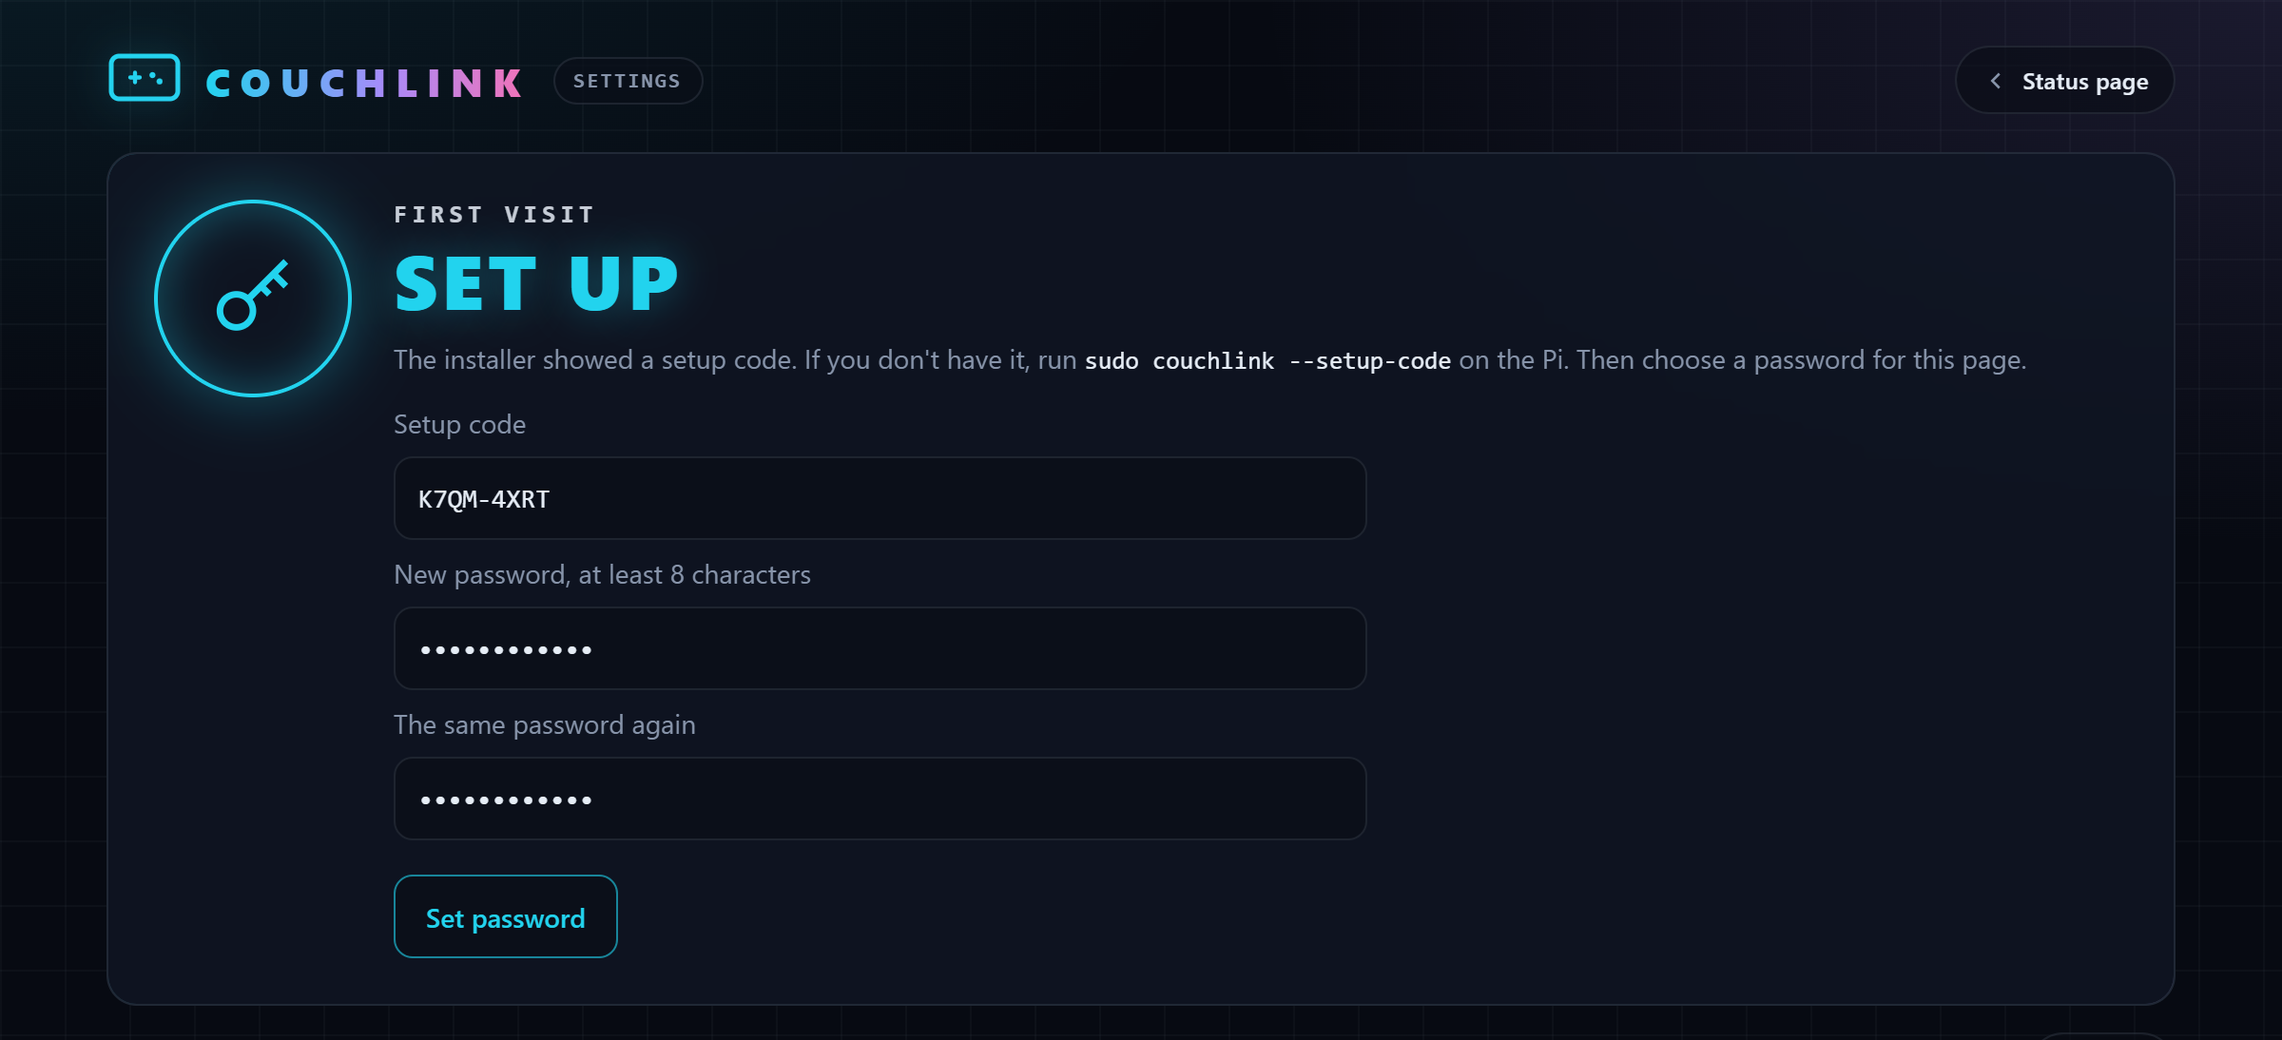
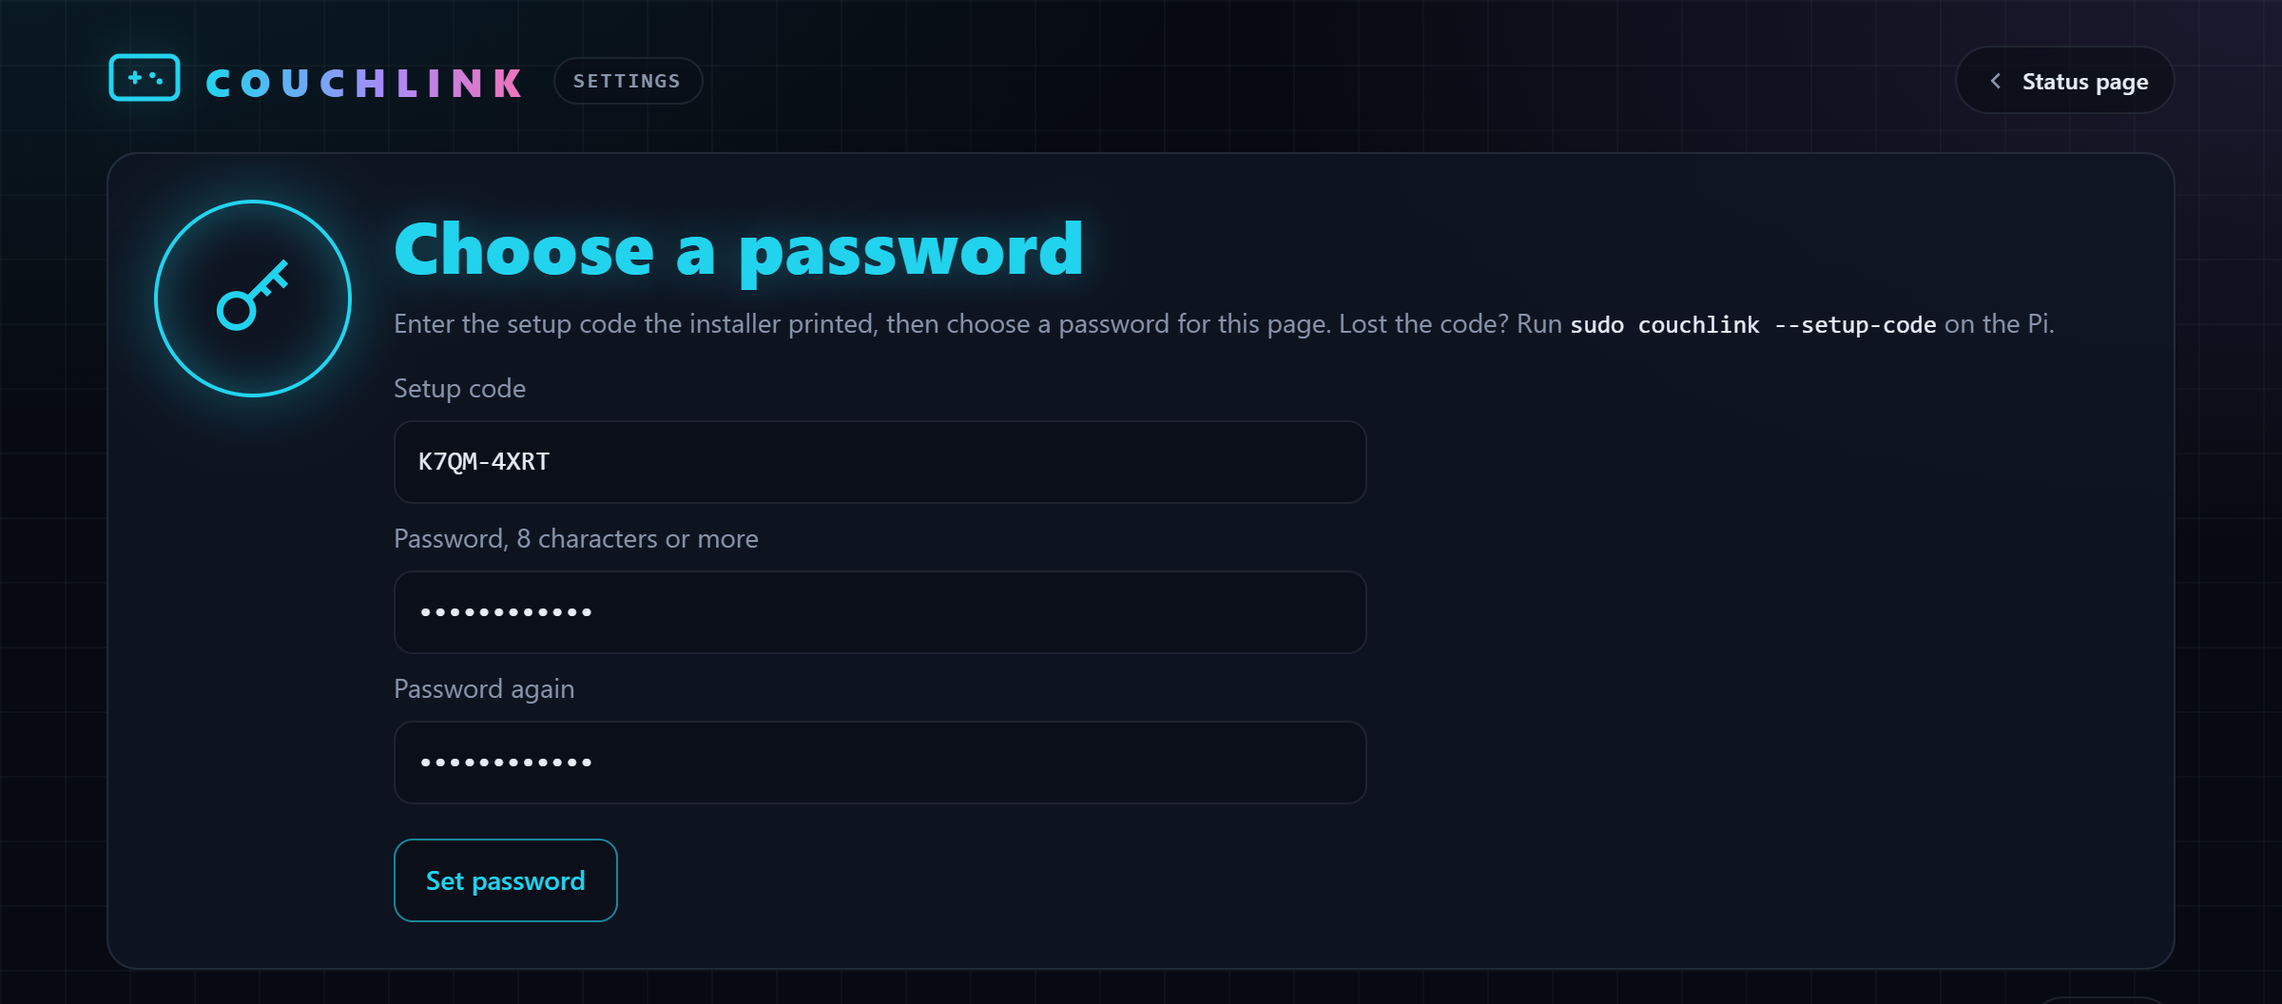
Plainer wording on the setup pages, and keep the settings inside a phone screen

diff --git a/couchlink/static/admin.html b/couchlink/static/admin.html
@@ -35,10 +35,9 @@
       <svg viewBox="0 0 24 24" fill="none" stroke="currentColor" stroke-width="1.6" aria-hidden="true"><rect x="4" y="11" width="16" height="10" rx="2"/><path d="M8 11V7a4 4 0 0 1 8 0v4"/></svg>
     </div>
     <div>
-    <div class="kicker">Settings</div>
     <h1 class="state">Log in</h1>
     <form id="loginForm" class="stack">
-      <label for="password">Password for the settings page</label>
+      <label for="password">Password</label>
       <input id="password" type="password" autocomplete="current-password" required>
       <div class="row">
         <button class="btn primary" type="submit">Log in</button>
@@ -53,16 +52,15 @@
       <svg viewBox="0 0 24 24" fill="none" stroke="currentColor" stroke-width="1.6" aria-hidden="true"><circle cx="8" cy="15" r="4"/><path d="M11 12l9-9M17 6l3 3M14 9l2 2"/></svg>
     </div>
     <div>
-    <div class="kicker">First visit</div>
-    <h1 class="state">Set up</h1>
-    <p class="note">The installer showed a setup code. If you don't have it, run
-      <code>sudo couchlink --setup-code</code> on the Pi. Then choose a password for this page.</p>
+    <h1 class="state">Choose a password</h1>
+    <p class="note">Enter the setup code the installer printed, then choose a password for this page.
+      Lost the code? Run <code>sudo couchlink --setup-code</code> on the Pi.</p>
     <form id="setupForm" class="stack">
       <label for="setupCode">Setup code</label>
       <input id="setupCode" autocomplete="off" spellcheck="false" placeholder="ABCD-EFGH" required>
-      <label for="setupPassword">New password, at least 8 characters</label>
+      <label for="setupPassword">Password, 8 characters or more</label>
       <input id="setupPassword" type="password" autocomplete="new-password" minlength="8" required>
-      <label for="setupPassword2">The same password again</label>
+      <label for="setupPassword2">Password again</label>
       <input id="setupPassword2" type="password" autocomplete="new-password" minlength="8" required>
       <div class="row">
         <button class="btn primary" type="submit">Set password</button>
@@ -78,9 +76,8 @@
         <svg viewBox="0 0 24 24" fill="none" stroke="currentColor" stroke-width="1.6" aria-hidden="true"><path d="M9 6h11M9 12h11M9 18h11M4 6h.01M4 12h.01M4 18h.01"/></svg>
       </div>
       <div>
-      <div class="kicker">Before CouchLink can start</div>
       <h1 class="state">Almost there</h1>
-      <p>Fill these in below, then save.</p>
+      <p>CouchLink needs these before it can start. The buttons below can find most of them for you.</p>
       <ul id="todoList"></ul>
       </div>
     </section>
@@ -90,21 +87,19 @@
         <svg viewBox="0 0 24 24" fill="none" stroke="currentColor" stroke-width="1.6" aria-hidden="true"><path d="M3 8h18v6l-3 3H6l-3-3z"/><path d="M7 11h10"/></svg>
       </div>
       <div>
-      <div class="kicker">TV, Pi and soundbar</div>
       <h1 class="state">Find the HDMI inputs</h1>
-      <p class="note">CouchLink can find the inputs for the PC, the Pi and a soundbar by itself. Turn the TV
-        on, and plug in and turn on the PC.</p>
+      <p class="note">Turn on the TV and the PC first.</p>
       <div class="stack">
-        <label for="layout">How is the PC connected?</label>
+        <label for="layout">How is the PC plugged in?</label>
         <select id="layout">
-          <option value="tv">To the TV, with no soundbar or receiver</option>
-          <option value="arc">To the TV, with a soundbar or receiver on the TV's ARC or eARC port</option>
-          <option value="bar">To a soundbar or receiver, which is connected to the TV</option>
+          <option value="tv">Into the TV</option>
+          <option value="arc">Into the TV, with a soundbar or receiver on the TV's ARC port</option>
+          <option value="bar">Into a soundbar or receiver</option>
         </select>
       </div>
       <div class="row">
-        <button class="btn primary" type="button" id="scan">1. Scan the HDMI devices</button>
-        <button class="btn" type="button" id="listen" disabled>2. Listen while I switch to the PC</button>
+        <button class="btn primary" type="button" id="scan">Scan for devices</button>
+        <button class="btn" type="button" id="listen" disabled>Listen for the PC</button>
         <span class="note" id="finderNote" role="status"></span>
       </div>
       <div class="grid" id="devices" hidden></div>
@@ -113,8 +108,8 @@
 
     <section class="panel form-panel">
       <h1>Settings</h1>
-      <p class="note">Saving checks the values, keeps the comments in the config file, and restarts
-        CouchLink to use them. Other settings are in <code>/etc/couchlink/config.toml</code>.</p>
+      <p class="note">Saving restarts CouchLink. Settings that aren't here are in
+        <code>/etc/couchlink/config.toml</code>.</p>
       <form id="settings" class="stack"></form>
       <div class="row">
         <button class="btn primary" type="submit" form="settings" id="save">Save and restart</button>
@@ -147,7 +142,7 @@
       <form id="passwordForm" class="stack">
         <label for="current">Current password</label>
         <input id="current" type="password" autocomplete="current-password" required>
-        <label for="newPassword">New password, at least 8 characters</label>
+        <label for="newPassword">New password, 8 characters or more</label>
         <input id="newPassword" type="password" autocomplete="new-password" minlength="8" required>
         <div class="row">
           <button class="btn" type="submit">Change password</button>

diff --git a/couchlink/static/admin.js b/couchlink/static/admin.js
@@ -136,7 +136,7 @@
   // ---- the MAC address, read from the Pi's network table
   function findMacRow() {
     var row = el("div", { "class": "row" });
-    var b = el("button", { "class": "btn", type: "button" }, "Find it from the IP address");
+    var b = el("button", { "class": "btn", type: "button" }, "Look it up");
     var note = el("span", { "class": "note", role: "status" });
     b.addEventListener("click", function () {
       note.textContent = "Looking";
@@ -171,7 +171,7 @@
     $("scan").disabled = true;
     $("listen").disabled = true;
     busy(true);
-    note.textContent = "Asking every HDMI device who it is. This can take up to a minute";
+    note.textContent = "Scanning. This can take up to a minute";
     post("/admin/cec/scan").then(function (j) {
       $("scan").disabled = false;
       busy(false);
@@ -182,17 +182,17 @@
       found = { known: j.devices.map(function (d) { return d.address; }), pi: pi, bar: bar };
       list.textContent = "";
       j.devices.forEach(function (d) {
-        var label = d === pi ? "This Pi" : d === bar ? "Soundbar or receiver" : d.name;
+        var label = d === pi ? "This Pi" : d === bar ? "Soundbar" : (d.osd || d.name);
         var color = d === pi ? "var(--cyan)" : d === bar ? "var(--violet)" : "";
-        list.appendChild(tile(label, d.dotted, d === pi || d === bar ? d.name : (d.osd || d.vendor), color));
+        list.appendChild(tile(label, d.dotted, color ? "Filled in below" : "Not used", color));
       });
       list.hidden = false;
       $("f_use_tv").checked = true;
       if (pi) setField("pi_address", pi.address);
       setField("soundbar_address", bar ? bar.address : "");
       note.textContent = (pi ? "Found the Pi" : "The Pi didn't answer, so type its input below") +
-        (layout === "tv" ? "" : bar ? " and the soundbar" : ". No soundbar answered, so type its input below") +
-        ". Now press 2, then switch the TV to the PC";
+        (layout === "tv" ? "" : bar ? " and the soundbar" : ". The soundbar didn't answer, so type its input below") +
+        ". Now press Listen for the PC, then switch the TV to the PC";
       $("listen").disabled = false;
     }).catch(function () { $("scan").disabled = false; busy(false); note.textContent = "Could not reach CouchLink"; });
   });
@@ -203,7 +203,7 @@
     listening = true;
     $("listen").disabled = true;
     busy(true);
-    note.textContent = "Listening. Switch the TV to the PC now. If the PC is already on screen, switch away and back";
+    note.textContent = "Listening for a minute. Switch the TV to the PC now. If it is already on the PC, switch away and back";
     post("/admin/cec/heard").then(function (start) {
       function poll() {
         post("/admin/cec/heard", { since: start.since }).then(function (j) {
@@ -212,20 +212,19 @@
             listening = false;
             $("listen").disabled = false;
             busy(false);
-            var t = tile("The PC", pc.dotted, "Heard when you switched", "var(--green)");
+            var t = tile("The PC", pc.dotted, "Filled in below", "var(--green)");
             t.id = "pcTile";
             if ($("pcTile")) $("pcTile").remove();
             $("devices").insertBefore(t, $("devices").firstChild);
             setField("pc_addresses", pc.address);
-            note.textContent = "Heard a switch to " + pc.dotted + ". It's filled in as the PC's input. " +
-              "Check the inputs below, then save";
+            note.textContent = "The PC is on " + pc.dotted + ". Check the inputs below, then save";
             return;
           }
           if (Date.now() > end) {
             listening = false;
             $("listen").disabled = false;
             busy(false);
-            note.textContent = "Didn't hear a switch. Your TV may not announce it. Type the PC's input below, " +
+            note.textContent = "Didn't hear the TV switch. Some TVs don't announce it. Type the PC's input below, " +
               "such as 12:00 for input 2 of a soundbar on TV input 1";
             return;
           }

diff --git a/couchlink/static/style.css b/couchlink/static/style.css
@@ -263,7 +263,7 @@ footer a.pill { color: var(--text); }
 .form-panel code { font: 13px var(--mono); color: var(--text); }
 .stack { display: flex; flex-direction: column; gap: 8px; }
 .row { display: flex; flex-wrap: wrap; align-items: center; gap: 10px 14px; margin-top: 10px; }
-fieldset { border: 1px solid var(--panel-edge); border-radius: 12px; margin: 0 0 12px; padding: 12px 14px 4px; }
+fieldset { border: 1px solid var(--panel-edge); border-radius: 12px; margin: 0 0 12px; padding: 12px 14px 4px; min-width: 0; }
 legend { padding: 0 6px; font: 600 11px var(--mono); letter-spacing: 0.16em; text-transform: uppercase; color: var(--violet); }
 .field { display: flex; flex-direction: column; gap: 6px; margin-bottom: 12px; }
 .field.check { flex-direction: row; align-items: center; gap: 10px; }
@@ -291,7 +291,7 @@ legend { padding: 0 6px; font: 600 11px var(--mono); letter-spacing: 0.16em; tex
 body.admin { --accent: var(--cyan); --accent-soft: rgba(34, 211, 238, 0.35); }
 .form-panel.hero { align-items: start; padding: 24px; }
 .form-panel.hero > div { min-width: 0; }
-.form-panel h1.state { margin: 6px 0 10px; font-size: clamp(28px, 5vw, 40px); letter-spacing: 0.06em; }
+.form-panel h1.state { margin: 4px 0 10px; font-size: clamp(28px, 5vw, 38px); letter-spacing: 0.01em; text-transform: none; }
 .hero.attention { --accent: var(--amber); --accent-soft: rgba(251, 191, 36, 0.35); }
 .todo ul { margin: 0; padding-left: 20px; line-height: 1.6; }
 .form-panel select { width: auto; max-width: 100%; align-self: flex-start; }   /* as wide as its longest choice */

diff --git a/couchlink/admin.py b/couchlink/admin.py
@@ -20,11 +20,11 @@ COOKIE = "couchlink_admin"
 # The settings on the page: (group, key, label, kind, options). Everything else stays a
 # matter for the config file.
 FIELDS = [
-    ("The PC", "pc_name", "Name on the status page", "text", {"blank": "Ask the PC for its name"}),
+    ("The PC", "pc_name", "Name on the status page", "text", {"blank": "Leave empty to use the PC's own name"}),
     ("The PC", "pc_host", "IP address", "text", {}),
     ("The PC", "pc_mac", "MAC address, for Wake-on-LAN", "text", {}),
     ("The PC", "ssh_user", "SSH user", "text", {}),
-    ("TV and HDMI inputs", "use_tv", "A TV is plugged into the Pi. Off: only wake the PC for remote play",
+    ("TV and HDMI inputs", "use_tv", "A TV is plugged into the Pi. Turn this off to only wake the PC for remote play",
      "bool", {}),
     ("TV and HDMI inputs", "pc_addresses", "The PC's input, such as 12:00. Separate several with commas",
      "addresses", {"blank": "Not needed without a TV"}),
@@ -50,9 +50,9 @@ KINDS = {key: kind for _, key, _, kind, _ in FIELDS}
 # What still has to be filled in, said plainly, for the setting each config problem names
 TODO = {
     "pc_host": "The PC's IP address",
-    "pc_mac": "The PC's MAC address. \"Find it from the IP address\" can fill it in",
-    "pc_addresses": "The PC's HDMI input. \"Find the HDMI inputs\" can fill it in",
-    "pi_address": "The Pi's HDMI input. \"Find the HDMI inputs\" can fill it in",
+    "pc_mac": "The PC's MAC address",
+    "pc_addresses": "The PC's HDMI input",
+    "pi_address": "The Pi's HDMI input",
 }
 
 
@@ -134,7 +134,7 @@ class Admin:
         if not settings.get("admin_password_hash"):
             if read_setup_code(self.path):
                 return 403, {"ok": False, "result": "setup",
-                             "message": "Enter the setup code the installer showed, and choose a password"}
+                             "message": "Enter the setup code the installer printed, and choose a password"}
             return 403, {"ok": False, "result": "no_password",
                          "message": "Get a setup code with: sudo couchlink --setup-code"}
         if not session_ok(cookie(headers, COOKIE), settings["admin_password_hash"]):

diff --git a/tests/test_browser_setup.py b/tests/test_browser_setup.py
@@ -185,7 +185,7 @@ class BrowserSetupTests(unittest.TestCase):
         self.assertTrue(auth.check_password(PASSWORD, config.load_config(self.path)[0]["admin_password_hash"]))
         status, body = self.request("/admin/api/state")                    # and logged in
         self.assertEqual(status, 200)
-        self.assertIn("The PC's HDMI input. \"Find the HDMI inputs\" can fill it in", body["todo"])
+        self.assertIn("The PC's HDMI input", body["todo"])
         self.assertTrue(body["cec"])
         status, body = self.request("/admin/setup", {"code": self.code, "password": "another one"})
         self.assertEqual(status, 409)                                      # only once

diff --git a/docs/configuration.md b/docs/configuration.md
@@ -18,21 +18,21 @@ CouchLink finds them for you. Turn the TV on, and plug in and turn on the PC.
 Open the [settings page](status-page-and-logs.md#settings-page) and use **Find
 the HDMI inputs**:
 
-1. Choose how the PC is connected: to the TV, to the TV with a soundbar or AV
-   receiver on the ARC port, or to a soundbar or AV receiver.
-2. Press **Scan the HDMI devices**. Every device that speaks CEC is listed, and
-   the Pi's input and the soundbar's are filled in.
-3. Press **Listen while I switch to the PC**, then switch the TV to the PC with
-   the remote. The PC usually doesn't speak CEC, so this is how its input is
-   found. If it hears nothing within a minute, your TV may not announce the
-   switch. Type the PC's input into the field instead.
+1. Choose how the PC is plugged in: into the TV, into the TV with a soundbar or
+   AV receiver on the ARC port, or into a soundbar or AV receiver.
+2. Press **Scan for devices**. Every device that speaks CEC is listed, and the
+   Pi's input and the soundbar's are filled in.
+3. Press **Listen for the PC**, then switch the TV to the PC with the remote.
+   The PC usually doesn't speak CEC, so this is how its input is found. If
+   nothing is heard within a minute, your TV may not announce the switch. Type
+   the PC's input into the field instead.
 4. Check the inputs in the form, then press **Save and restart**.
 
 ![Find the HDMI inputs after a scan and a switch to the PC. The PC is on TV input 2, the Pi on input 4 and the soundbar on input 1.](setup-hdmi-inputs.png)
 
 The lit tiles are the inputs CouchLink will use: the PC in green, the Pi in
-cyan and the soundbar in violet. The others are the rest of the devices on
-the bus.
+cyan and the soundbar in violet. The others are the other devices on the
+bus, which CouchLink doesn't need.
 
 CouchLink keeps running while it does this. It uses the same connection to
 the TV.

diff --git a/docs/troubleshooting.md b/docs/troubleshooting.md
@@ -29,7 +29,7 @@ Common problems, what to check, and the known limitations.
 | You forgot the settings page's password | Set a new one with `sudo couchlink --admin-password`. |
 | The settings page asks for a setup code you don't have | See it with `sudo couchlink --setup-code`, or set the password with `sudo couchlink --admin-password`. |
 | The status page always goes to the settings page | The settings aren't complete yet. The settings page lists what's missing under "Almost there". |
-| Find it from the IP address doesn't find the MAC address | The PC has to be on and on the same network as the Pi. Check the IP address. |
+| Look it up doesn't find the PC's MAC address | The PC has to be on and on the same network as the Pi. Check the IP address. |
 | After saving settings, the page waits | CouchLink restarts to use them, which takes a few seconds, longer on a Pi Zero. If it doesn't come back, check `sudo journalctl -u couchlink.service -n 50`. A wrong value isn't saved, so a restart doesn't fail because of one. |
 | The API answers `locked_out` | 5 wrong keys came from that address within a minute. Wait a minute. |
 | The TV turns on when you wake the PC to stream | With a TV, this means the PC was woken by something else, such as Moonlight or a phone app, so CouchLink treats it like a controller wake. Use Wake PC on the status page or `POST /api/wake` with `{"tv": false}` instead. If you never use the TV with the PC, run CouchLink [without a TV](how-it-works.md#without-a-tv). |

diff --git a/docs/installation.md b/docs/installation.md
@@ -72,14 +72,15 @@ Wired Ethernet is the most reliable way to wake the PC. See
 
    ![The Almost there list: the PC's IP and MAC address, and the PC's and the Pi's HDMI inputs](setup-almost-there.png)
 
-   - Fill in the PC's IP address, and press **Find it from the IP address** for
-     its MAC address. The PC has to be on.
+   - Fill in the PC's IP address, and press **Look it up** under the MAC address
+     to fill it in. The PC has to be on.
 
-     ![The PC's settings, with the MAC address found from the IP address](setup-the-pc.png)
+     ![The PC's settings, with the MAC address looked up from the IP address](setup-the-pc.png)
 
    - With a TV, use **Find the HDMI inputs**. Turn the TV on, choose how the PC
-     is connected, press **Scan**, then **Listen** and switch the TV to the PC.
-     See [Finding your CEC addresses](configuration.md#finding-your-cec-addresses).
+     is plugged in, press **Scan for devices**, then press **Listen for the PC**
+     and switch the TV to the PC. See
+     [Finding your CEC addresses](configuration.md#finding-your-cec-addresses).
      Without a TV, turn off "A TV is plugged into the Pi" instead.
 
      ![Find the HDMI inputs after a scan and a switch to the PC, with the PC, the Pi and the soundbar found](setup-hdmi-inputs.png)

diff --git a/docs/status-page-and-logs.md b/docs/status-page-and-logs.md
@@ -76,8 +76,8 @@ status page, changes CouchLink from a browser:
 - **Finding the HDMI inputs:** scans the bus and listens while you switch the
   TV to the PC, then fills in the inputs. See
   [Finding your CEC addresses](configuration.md#on-the-settings-page).
-- **The PC's MAC address:** **Find it from the IP address** reads it from the
-  Pi's network table. The PC has to be on.
+- **The PC's MAC address:** **Look it up** reads it from the Pi's network
+  table. The PC has to be on.
 - **Check SSH to the PC:** says whether the Pi can log in to the PC to put it to
   sleep, and what to do if it can't.
 - **Password:** change the page's password. Other devices that are logged in
